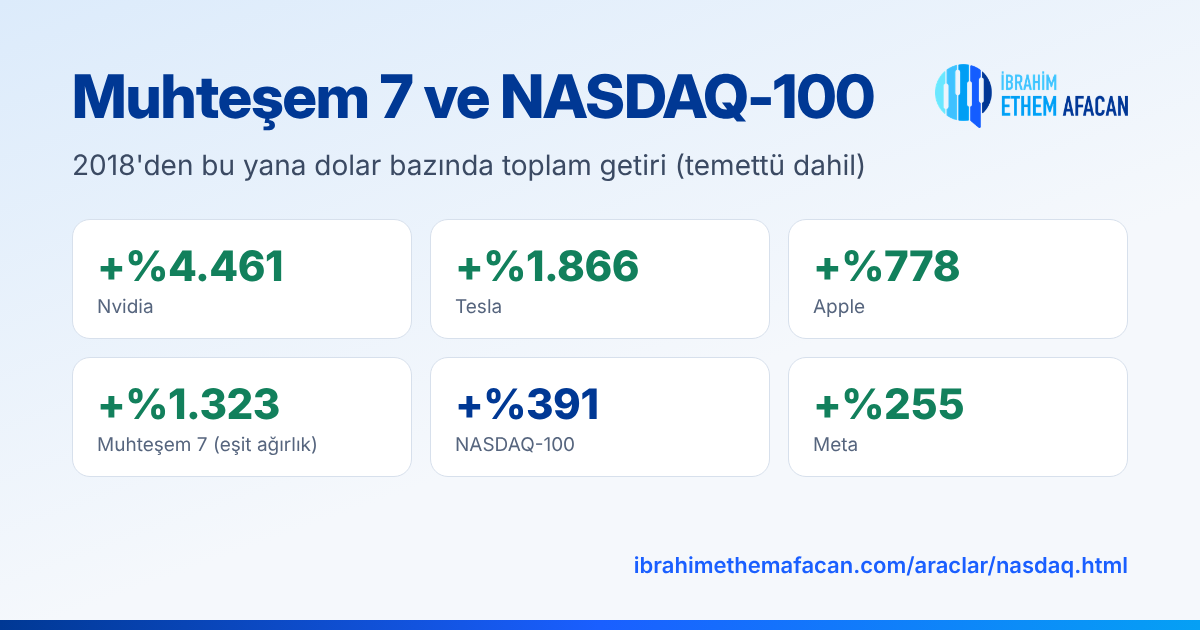
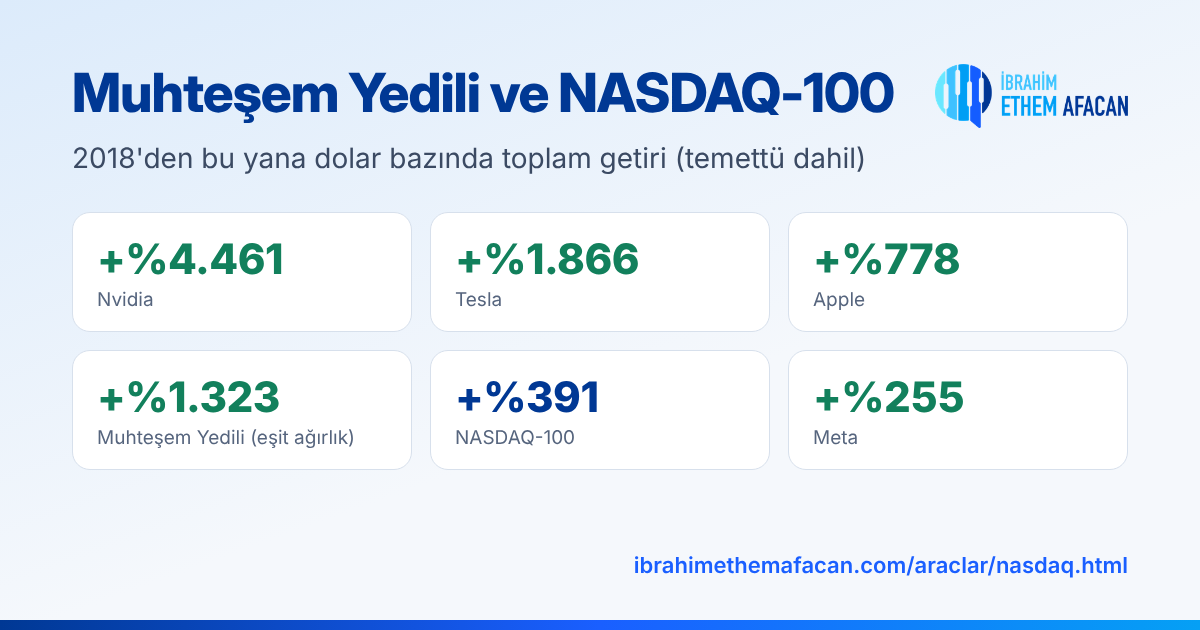
Muhteşem 7 yerine Muhteşem Yedili
Claude-Session: https://claude.ai/code/session_013mrGbpFadh1h9epcSoKPzq

diff --git a/araclar/nasdaq.html b/araclar/nasdaq.html
@@ -3,22 +3,22 @@
 <head>
   <meta charset="utf-8">
   <meta name="viewport" content="width=device-width, initial-scale=1">
-  <title>Muhteşem 7 ve NASDAQ-100 — İbrahim Ethem Afacan</title>
-  <meta name="description" content="Muhteşem 7 hissesi (Nvidia, Apple, Microsoft, Alphabet, Amazon, Meta, Tesla) ve NASDAQ-100'ün 2018'den bu yana yıllık getirileri, dolar ve TL bazında.">
+  <title>Muhteşem Yedili ve NASDAQ-100 — İbrahim Ethem Afacan</title>
+  <meta name="description" content="Muhteşem Yedili hisseleri (Nvidia, Apple, Microsoft, Alphabet, Amazon, Meta, Tesla) ve NASDAQ-100'ün 2018'den bu yana yıllık getirileri, dolar ve TL bazında.">
   <meta property="og:type" content="website">
   <meta property="og:site_name" content="İbrahim Ethem Afacan">
   <meta property="og:locale" content="tr_TR">
-  <meta property="og:title" content="Muhteşem 7 ve NASDAQ-100">
-  <meta property="og:description" content="Muhteşem 7 hissesi (Nvidia, Apple, Microsoft, Alphabet, Amazon, Meta, Tesla) ve NASDAQ-100'ün 2018'den bu yana yıllık getirileri, dolar ve TL bazında.">
+  <meta property="og:title" content="Muhteşem Yedili ve NASDAQ-100">
+  <meta property="og:description" content="Muhteşem Yedili hisseleri (Nvidia, Apple, Microsoft, Alphabet, Amazon, Meta, Tesla) ve NASDAQ-100'ün 2018'den bu yana yıllık getirileri, dolar ve TL bazında.">
   <meta property="og:url" content="https://ibrahimethemafacan.com/araclar/nasdaq.html">
-  <meta property="og:image" content="https://ibrahimethemafacan.com/img/og-nasdaq.png?v=3">
+  <meta property="og:image" content="https://ibrahimethemafacan.com/img/og-nasdaq.png?v=4">
   <meta property="og:image:width" content="1200">
   <meta property="og:image:height" content="630">
   <meta name="twitter:card" content="summary_large_image">
   <meta name="twitter:site" content="@ibrahim___ethem">
-  <meta name="twitter:title" content="Muhteşem 7 ve NASDAQ-100">
-  <meta name="twitter:description" content="Muhteşem 7 hissesi (Nvidia, Apple, Microsoft, Alphabet, Amazon, Meta, Tesla) ve NASDAQ-100'ün 2018'den bu yana yıllık getirileri, dolar ve TL bazında.">
-  <meta name="twitter:image" content="https://ibrahimethemafacan.com/img/og-nasdaq.png?v=3">
+  <meta name="twitter:title" content="Muhteşem Yedili ve NASDAQ-100">
+  <meta name="twitter:description" content="Muhteşem Yedili hisseleri (Nvidia, Apple, Microsoft, Alphabet, Amazon, Meta, Tesla) ve NASDAQ-100'ün 2018'den bu yana yıllık getirileri, dolar ve TL bazında.">
+  <meta name="twitter:image" content="https://ibrahimethemafacan.com/img/og-nasdaq.png?v=4">
   <link rel="icon" href="/favicon.ico" sizes="any">
   <link rel="icon" type="image/png" sizes="32x32" href="/img/favicon-32.png">
   <link rel="icon" type="image/png" sizes="192x192" href="/img/favicon-192.png">
@@ -73,8 +73,8 @@
   <main class="wrap narrow">
     <article class="prose wide">
       <p class="calc-note"><a href="/araclar/getiriler.html">← Yatırım araçlarının getirileri</a></p>
-      <h1>Muhteşem 7 ve NASDAQ-100</h1>
-      <p>Nvidia, Apple, Microsoft, Alphabet, Amazon, Meta ve Tesla: NASDAQ-100'ün yaklaşık %40'ını tek başına oluşturan "Muhteşem 7" hisseleri 2018'den bu yana ne kazandırdı, endeksi ne kadar geçti? Getiriler temettü dahildir; 2026 satırı 27 Ekim 2026'ya kadardır.</p>
+      <h1>Muhteşem Yedili ve NASDAQ-100</h1>
+      <p>Nvidia, Apple, Microsoft, Alphabet, Amazon, Meta ve Tesla: NASDAQ-100'ün yaklaşık %40'ını tek başına oluşturan "Muhteşem Yedili" hisseleri 2018'den bu yana ne kazandırdı, endeksi ne kadar geçti? Getiriler temettü dahildir; 2026 satırı 27 Ekim 2026'ya kadardır.</p>
     </article>
 
     <div class="kpi" id="kpi"></div>
@@ -101,7 +101,7 @@
 
     <article class="prose">
       <h2>Notlar</h2>
-      <p>Getiriler temettülerin yeniden yatırıldığı toplam getiridir. NASDAQ-100 için endeksi izleyen QQQ fonu kullanılmıştır (27 Ekim'deki son günlük değişim endeks kapanışından hesaplanmıştır); fonun yıllık yönetim ücreti getiriye dahildir. Muhteşem 7 (eşit ağırlık), yedi hisseye her yılbaşında eşit tutar yatırıldığı varsayılarak hesaplanmıştır. TL bazında getiri, dolar getirisinin dolar/TL kurundaki yıllık değişimle birleştirilmesiyle bulunur. 2026 satırı 27 Ekim 2026 kapanışına kadardır. Kaynak: ChartRow ve TotalRealReturns (fiyat ve temettü verileri, iki kaynak karşılaştırılmıştır), TCMB (dolar/TL).</p>
+      <p>Getiriler temettülerin yeniden yatırıldığı toplam getiridir. NASDAQ-100 için endeksi izleyen QQQ fonu kullanılmıştır (27 Ekim'deki son günlük değişim endeks kapanışından hesaplanmıştır); fonun yıllık yönetim ücreti getiriye dahildir. Muhteşem Yedili (eşit ağırlık), yedi hisseye her yılbaşında eşit tutar yatırıldığı varsayılarak hesaplanmıştır. TL bazında getiri, dolar getirisinin dolar/TL kurundaki yıllık değişimle birleştirilmesiyle bulunur. 2026 satırı 27 Ekim 2026 kapanışına kadardır. Kaynak: ChartRow ve TotalRealReturns (fiyat ve temettü verileri, iki kaynak karşılaştırılmıştır), TCMB (dolar/TL).</p>
       <p class="calc-note">Bu sayfadaki veriler yapay zekâ destekli bir araçla derlenmiştir; hata olabilir. Yatırım tavsiyesi değildir.</p>
     </article>
   </main>
@@ -115,7 +115,7 @@
   </footer>
 
   <script>
-    var D = {"y": ["2018", "2019", "2020", "2021", "2022", "2023", "2024", "2025", "2026*"], "s": [{"n": "Nvidia", "t": "NVDA", "usd": [-30.8, 76.9, 122.3, 125.5, -50.3, 239.0, 171.2, 38.9, 17.1], "tl": [-3.3, 98.8, 177.9, 306.6, -30.6, 433.9, 225.4, 68.6, 35.8], "cu": [-30.8, 22.4, 172.1, 513.6, 205.0, 933.9, 2703.9, 3794.6, 4460.6], "ct": [-3.3, 92.2, 434.2, 2072.2, 1407.5, 7948.6, 26090.0, 44056.4, 59864.3]}, {"n": "Apple", "t": "AAPL", "usd": [-5.4, 89.0, 82.3, 34.6, -26.4, 49.0, 30.7, 9.1, 28.0], "tl": [32.2, 112.4, 127.9, 142.7, 2.7, 134.7, 56.8, 32.4, 48.4], "cu": [-5.4, 78.8, 225.9, 338.7, 222.9, 381.1, 528.8, 586.0, 778.1], "ct": [32.2, 180.8, 539.9, 1453.1, 1495.0, 3643.5, 5769.9, 7671.7, 11433.2]}, {"n": "Microsoft", "t": "MSFT", "usd": [20.8, 57.6, 42.5, 52.5, -28.0, 58.2, 12.9, 15.6, 10.6], "tl": [68.8, 77.1, 78.1, 175.0, 0.5, 149.2, 35.5, 40.3, 28.2], "cu": [20.8, 90.4, 171.3, 313.7, 197.9, 371.2, 432.0, 515.0, 580.2], "ct": [68.8, 198.9, 432.4, 1364.2, 1371.5, 3566.9, 4868.7, 6871.1, 8836.9]}, {"n": "Alphabet", "t": "GOOGL", "usd": [-0.8, 28.2, 30.9, 65.3, -39.1, 58.3, 36.0, 66.0, 2.6], "tl": [38.6, 44.1, 63.6, 198.0, -15.0, 149.3, 63.2, 101.5, 19.0], "cu": [-0.8, 27.2, 66.5, 175.2, 67.6, 165.3, 260.8, 498.9, 514.5], "ct": [38.6, 99.7, 226.7, 873.7, 727.6, 1963.3, 3267.3, 6685.2, 7974.4]}, {"n": "Amazon", "t": "AMZN", "usd": [28.4, 23.0, 76.3, 2.4, -49.6, 80.9, 44.4, 5.2, 9.7], "tl": [79.4, 38.3, 120.4, 84.6, -29.6, 184.9, 73.3, 27.7, 27.2], "cu": [28.4, 57.9, 178.4, 185.1, 43.7, 160.0, 275.4, 294.9, 333.2], "ct": [79.4, 148.1, 446.8, 909.5, 610.7, 1924.7, 3408.7, 4380.7, 5599.4]}, {"n": "Meta", "t": "META", "usd": [-25.7, 56.6, 33.1, 23.1, -64.2, 194.1, 66.0, 13.1, -5.8], "tl": [3.8, 76.0, 66.4, 121.9, -50.0, 363.2, 99.2, 37.3, 9.2], "cu": [-25.7, 16.4, 54.9, 90.6, -31.8, 100.7, 233.2, 276.8, 255.0], "ct": [3.8, 82.7, 204.0, 574.6, 237.3, 1462.3, 3012.1, 4172.9, 4566.0]}, {"n": "Tesla", "t": "TSLA", "usd": [6.9, 25.7, 743.4, 49.8, -65.0, 101.7, 62.5, 11.4, -9.4], "tl": [49.3, 41.3, 954.2, 170.1, -51.1, 217.7, 95.0, 35.2, 5.0], "cu": [6.9, 34.4, 1033.3, 1597.7, 494.2, 1098.5, 1847.5, 2069.6, 1865.6], "ct": [49.3, 111.0, 2123.9, 5906.9, 2837.4, 9232.0, 18097.4, 24502.9, 25733.1]}, {"n": "NASDAQ-100", "t": "QQQ", "usd": [-0.1, 39.0, 48.6, 27.4, -32.6, 54.9, 25.6, 20.8, 17.8], "tl": [39.6, 56.2, 85.8, 129.7, -5.9, 144.0, 50.7, 46.7, 36.6], "cu": [-0.1, 38.9, 106.3, 162.9, 77.2, 174.5, 244.7, 316.4, 390.5], "ct": [39.6, 118.1, 305.1, 830.6, 775.7, 2036.7, 3120.1, 4623.8, 6352.8]}, {"n": "Muhteşem 7 (eşit ağırlık)", "t": "", "usd": [-0.9, 51.0, 161.5, 50.5, -46.1, 111.6, 60.5, 22.8, 7.5], "tl": [38.4, 69.7, 226.9, 171.4, -24.8, 233.3, 92.6, 49.1, 24.6], "cu": [-0.9, 49.6, 291.3, 488.9, 217.4, 571.7, 978.0, 1223.8, 1323.1], "ct": [38.4, 134.9, 667.8, 1983.7, 1467.0, 5122.7, 9958.9, 14897.9, 18587.4]}]};
+    var D = {"y": ["2018", "2019", "2020", "2021", "2022", "2023", "2024", "2025", "2026*"], "s": [{"n": "Nvidia", "t": "NVDA", "usd": [-30.8, 76.9, 122.3, 125.5, -50.3, 239.0, 171.2, 38.9, 17.1], "tl": [-3.3, 98.8, 177.9, 306.6, -30.6, 433.9, 225.4, 68.6, 35.8], "cu": [-30.8, 22.4, 172.1, 513.6, 205.0, 933.9, 2703.9, 3794.6, 4460.6], "ct": [-3.3, 92.2, 434.2, 2072.2, 1407.5, 7948.6, 26090.0, 44056.4, 59864.3]}, {"n": "Apple", "t": "AAPL", "usd": [-5.4, 89.0, 82.3, 34.6, -26.4, 49.0, 30.7, 9.1, 28.0], "tl": [32.2, 112.4, 127.9, 142.7, 2.7, 134.7, 56.8, 32.4, 48.4], "cu": [-5.4, 78.8, 225.9, 338.7, 222.9, 381.1, 528.8, 586.0, 778.1], "ct": [32.2, 180.8, 539.9, 1453.1, 1495.0, 3643.5, 5769.9, 7671.7, 11433.2]}, {"n": "Microsoft", "t": "MSFT", "usd": [20.8, 57.6, 42.5, 52.5, -28.0, 58.2, 12.9, 15.6, 10.6], "tl": [68.8, 77.1, 78.1, 175.0, 0.5, 149.2, 35.5, 40.3, 28.2], "cu": [20.8, 90.4, 171.3, 313.7, 197.9, 371.2, 432.0, 515.0, 580.2], "ct": [68.8, 198.9, 432.4, 1364.2, 1371.5, 3566.9, 4868.7, 6871.1, 8836.9]}, {"n": "Alphabet", "t": "GOOGL", "usd": [-0.8, 28.2, 30.9, 65.3, -39.1, 58.3, 36.0, 66.0, 2.6], "tl": [38.6, 44.1, 63.6, 198.0, -15.0, 149.3, 63.2, 101.5, 19.0], "cu": [-0.8, 27.2, 66.5, 175.2, 67.6, 165.3, 260.8, 498.9, 514.5], "ct": [38.6, 99.7, 226.7, 873.7, 727.6, 1963.3, 3267.3, 6685.2, 7974.4]}, {"n": "Amazon", "t": "AMZN", "usd": [28.4, 23.0, 76.3, 2.4, -49.6, 80.9, 44.4, 5.2, 9.7], "tl": [79.4, 38.3, 120.4, 84.6, -29.6, 184.9, 73.3, 27.7, 27.2], "cu": [28.4, 57.9, 178.4, 185.1, 43.7, 160.0, 275.4, 294.9, 333.2], "ct": [79.4, 148.1, 446.8, 909.5, 610.7, 1924.7, 3408.7, 4380.7, 5599.4]}, {"n": "Meta", "t": "META", "usd": [-25.7, 56.6, 33.1, 23.1, -64.2, 194.1, 66.0, 13.1, -5.8], "tl": [3.8, 76.0, 66.4, 121.9, -50.0, 363.2, 99.2, 37.3, 9.2], "cu": [-25.7, 16.4, 54.9, 90.6, -31.8, 100.7, 233.2, 276.8, 255.0], "ct": [3.8, 82.7, 204.0, 574.6, 237.3, 1462.3, 3012.1, 4172.9, 4566.0]}, {"n": "Tesla", "t": "TSLA", "usd": [6.9, 25.7, 743.4, 49.8, -65.0, 101.7, 62.5, 11.4, -9.4], "tl": [49.3, 41.3, 954.2, 170.1, -51.1, 217.7, 95.0, 35.2, 5.0], "cu": [6.9, 34.4, 1033.3, 1597.7, 494.2, 1098.5, 1847.5, 2069.6, 1865.6], "ct": [49.3, 111.0, 2123.9, 5906.9, 2837.4, 9232.0, 18097.4, 24502.9, 25733.1]}, {"n": "NASDAQ-100", "t": "QQQ", "usd": [-0.1, 39.0, 48.6, 27.4, -32.6, 54.9, 25.6, 20.8, 17.8], "tl": [39.6, 56.2, 85.8, 129.7, -5.9, 144.0, 50.7, 46.7, 36.6], "cu": [-0.1, 38.9, 106.3, 162.9, 77.2, 174.5, 244.7, 316.4, 390.5], "ct": [39.6, 118.1, 305.1, 830.6, 775.7, 2036.7, 3120.1, 4623.8, 6352.8]}, {"n": "Muhteşem Yedili (eşit ağırlık)", "t": "", "usd": [-0.9, 51.0, 161.5, 50.5, -46.1, 111.6, 60.5, 22.8, 7.5], "tl": [38.4, 69.7, 226.9, 171.4, -24.8, 233.3, 92.6, 49.1, 24.6], "cu": [-0.9, 49.6, 291.3, 488.9, 217.4, 571.7, 978.0, 1223.8, 1323.1], "ct": [38.4, 134.9, 667.8, 1983.7, 1467.0, 5122.7, 9958.9, 14897.9, 18587.4]}]};
     var n1=new Intl.NumberFormat('tr-TR',{minimumFractionDigits:1,maximumFractionDigits:1}),n0=new Intl.NumberFormat('tr-TR',{maximumFractionDigits:0});
     function pc(v){var a=Math.abs(v),s=a>=1000?n0.format(a):n1.format(a);return '<span class="'+(v<0?'neg':'pos')+'">'+(v<0?'−':'+')+'%'+s+'</span>';}
     var UP='#12805C',DN='#A33A2E',IX='#56657E';
@@ -146,7 +146,7 @@
       var best=stocks.slice().sort(function(a,b){return b[k][8]-a[k][8];})[0];
       var beat=stocks.filter(function(s){return s[ck][8]>q[ck][8];}).length;
       document.getElementById('kpi').innerHTML=[
-        ['Muhteşem 7 (eşit ağırlık), 2018\'den bu yana',pc(m[ck][8])],
+        ['Muhteşem Yedili (eşit ağırlık), 2018\'den bu yana',pc(m[ck][8])],
         ['NASDAQ-100, 2018\'den bu yana',pc(q[ck][8])],
         ['Endeksi geçen hisse sayısı (2018\'den bu yana)',beat+' / 7'],
         ['2026\'nın en iyisi: '+best.n,pc(best[k][8])]

diff --git a/araclar/getiriler.html b/araclar/getiriler.html
@@ -147,7 +147,7 @@
       var d = DATA[i];
       Array.prototype.forEach.call(tabs.querySelectorAll('button'), function (b, j) { b.setAttribute('aria-selected', j === i); b.tabIndex = j === i ? 0 : -1; });
       document.getElementById('panel').setAttribute('aria-labelledby', 'tab-' + d.id);
-      var MORE = { konut: ['/araclar/konut.html', 'İl ve bölge bazında konut fiyatları ve kiraları →'], ndx: ['/araclar/nasdaq.html', 'Muhteşem 7 hisseleri ve NASDAQ-100 karşılaştırması →'] };
+      var MORE = { konut: ['/araclar/konut.html', 'İl ve bölge bazında konut fiyatları ve kiraları →'], ndx: ['/araclar/nasdaq.html', 'Muhteşem Yedili hisseleri ve NASDAQ-100 karşılaştırması →'] };
       document.getElementById('more-top').hidden = !MORE[d.id];
       if (MORE[d.id]) { var ml = document.getElementById('more-link'); ml.href = MORE[d.id][0]; ml.textContent = MORE[d.id][1]; }
       var maxAbs = Math.max.apply(null, d.rows.map(function (r) { return Math.abs(r[1]); }));
